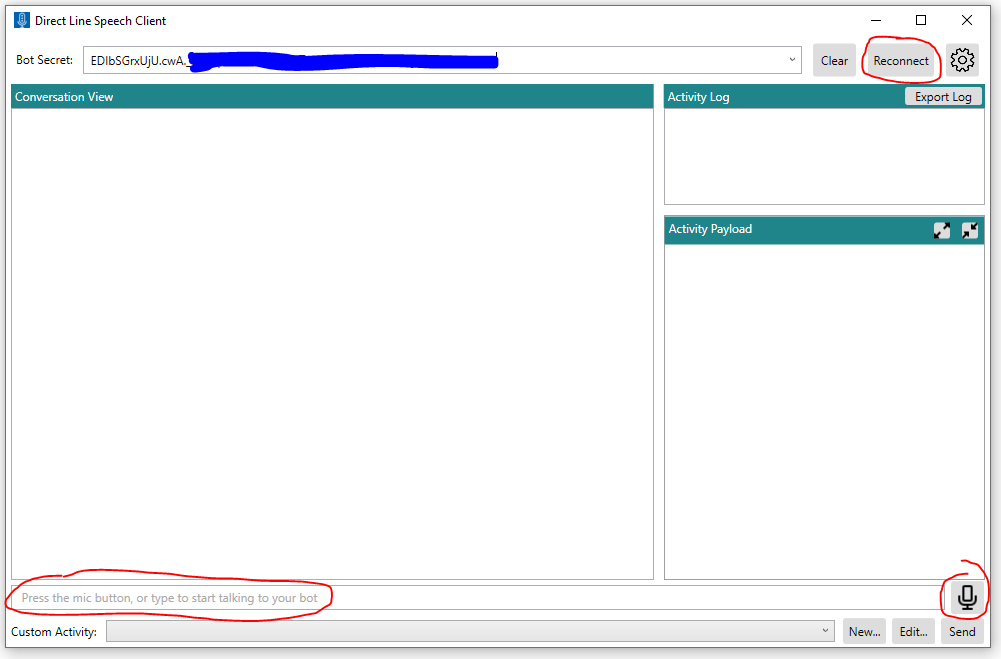
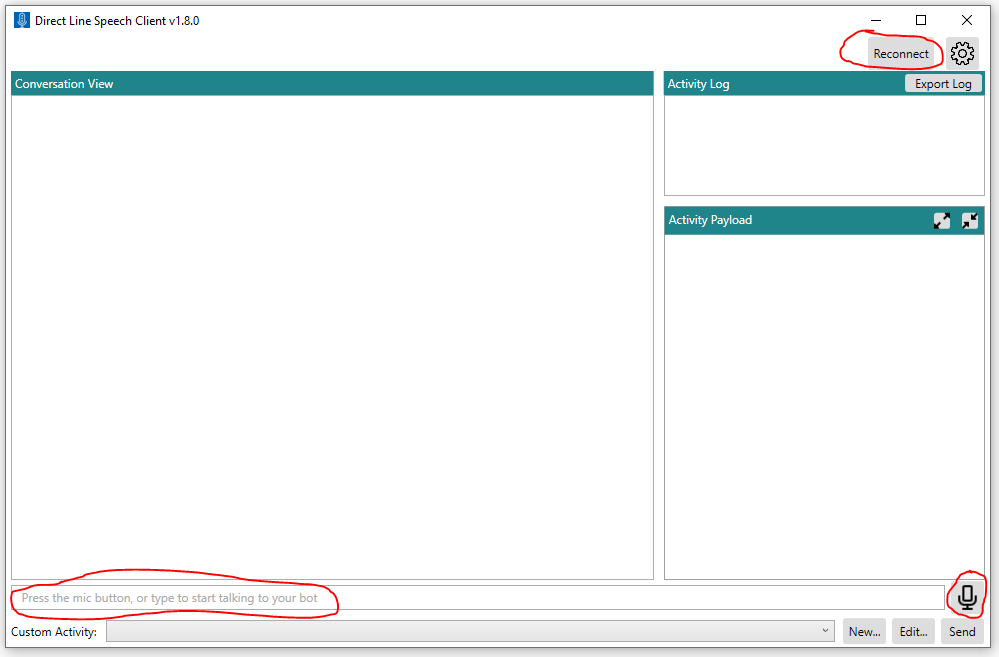
Dcohen readme update (#57)
* Update REAMDE.md following integration with Speech SDK 1.8

Changed region(s): [[0.0, 0.0, 0.993, 1.0]]

diff --git a/README.md b/README.md
@@ -20,7 +20,7 @@ The Direct Line Speech Client is a Windows Presentation Foundation (WPF) applica
 * Accepts typed text and speech captured by a microphone as inputs for your bot
 * Supports playback of audio response
 * Supports use of [custom wake-words](https://docs.microsoft.com/en-us/azure/cognitive-services/speech-service/speech-devices-sdk-create-kws)
-* Supports sending custom [Bot-Framework Activities](https://github.com/Microsoft/botframework-sdk/blob/master/specs/botframework-activity/botframework-activity.md) as JSON
+* Supports sending custom [Bot-Framework Activities](https://github.com/Microsoft/botframework-sdk/blob/master/specs/botframework-activity/botframework-activity.md) as JSON to the bot
 * Displays [Adaptive Cards](https://adaptivecards.io/) sent from your bot (with some limitations)
 * Exports the transcript and activity logs to a file
 
@@ -34,7 +34,7 @@ Let's review the hardware, software, and subscriptions that you'll need to use t
 - Visual Studio 2017 or higher
 - Microphone access
 - An Azure [Speech Services Key](https://docs.microsoft.com/en-us/azure/cognitive-services/speech-service/get-started)
-- A [Bot-Framework](https://dev.botframework.com/) bot service registered with Direct Line Speech channel
+- A [Bot-Framework](https://dev.botframework.com/) bot service registered with [Direct Line Speech](https://docs.microsoft.com/en-us/azure/bot-service/bot-service-channel-connect-directlinespeech?view=azure-bot-service-4.0) channel
 
 ### Quickstart
 
@@ -54,15 +54,13 @@ Let's review the hardware, software, and subscriptions that you'll need to use t
     - The default input language is "en-us" (US English). Update the _Language_ field as needed to select a different [language code from the "Speech-to-text" list](https://docs.microsoft.com/en-us/azure/cognitive-services/speech-service/language-support).
     - Press _Ok_ when you're done.
     - Your entires will be saved and populated automatically when you launch the app again.
-    ![Setting page](docs/media/SettingsPage.png)
-6. In the main window, enter your **Bot Secret**. This is one of the two channel secret keys provided when you
-registered your Bot-Framework bot with the Direct Line Speech channel.
-   ![Main Page](docs/media/MainPage.png)
-7. Press **Reconnect**. The application will try to connect to your bot via Direct Line Speech channel.
+    ![Setting page](docs/media/SettingsPage.png)  
+6. Press **Reconnect**. The application will try to connect to your bot via Direct Line Speech channel.
+ ![Main Page](docs/media/MainPage.png)
 The message **New conversation started -- type or press the microphone button** will appear below the text bar if the connection succeeded.
-8. You'll be prompted to allow microphone access. If you want to use the microphone, allow access.
-9. Press the microphone icon to begin recording. While speaking, intermediate recognition results will be shown in the application. The microphone icon will turn red while recording is in progress. It will automatically detect end of speech and stop recording.
-10. If everything works, you should see your bot's response on the screen and hear it speak the response. You can click on lines in the **Activity Log** window to see the full activity payload from the bot in JSON.
+7. You'll be prompted to allow microphone access. If you want to use the microphone, allow access.
+8. Press the microphone icon to begin recording. While speaking, intermediate recognition results will be shown in the application. The microphone icon will turn red while recording is in progress. It will automatically detect end of speech and stop recording.
+9. If everything works, you should see your bot's response on the screen and hear it speak the response. You can click on lines in the **Activity Log** window to see the full activity payload from the bot in JSON.
     **Note**: You'll only hear the bot's voice response if the [**Speak** field](https://github.com/Microsoft/botframework-sdk/blob/master/specs/botframework-activity/botframework-activity.md#speak) in the bot's output activity was set.
 
     ![Main Page](docs/media/MainPageWithActivity.png)
@@ -73,8 +71,7 @@ If an error messages was shown in red in the main application window, use this t
 
 | Error | What should you do? |
 |-------|----------------------|
-|App Error (see log for details): Microsoft.CognitiveServices.Speech.csharp : Value cannot be null. Parameter name: speechConfig | This is a client application error. Make sure you have a non-empty value for *Bot Secret* in the main app window | 
-|Error AuthenticationFailure : WebSocket Upgrade failed with an authentication error (401). Please check for correct subscription key (or authorization token) and region name| In the Settings page of the application, make sure you entered the Speech Subscription key and its region correctly.<br>Make sure your Bot Secret was entered correctly. |
+|Error AuthenticationFailure : WebSocket Upgrade failed with an authentication error (401). Please check for correct subscription key (or authorization token) and region name| In the Settings page of the application, make sure you entered the Speech Subscription key and its region correctly.|
 |Error ConnectionFailure : Connection was closed by the remote host. Error code: 1011. Error details: We could not connect to the bot before sending a message | Make sure you [checked the "Enable Streaming Endpoint" box and/or toggled "Web sockets" to On](https://docs.microsoft.com/en-us/azure/bot-service/bot-service-channel-connect-directlinespeech?view=azure-bot-service-4.0#enable-the-bot-framework-protocol-streaming-extensions)<br>Make sure your Azure App Service is running. If it is, try restarting your App Service.|
 |Error ConnectionFailure : Connection was closed by the remote host. Error code: 1011. Error details: Response status code does not indicate success: 500 (InternalServerError)| Your bot specified a Neural Voice in its output Activity [Speak](https://github.com/microsoft/botframework-sdk/blob/master/specs/botframework-activity/botframework-activity.md#speak) field, but the Azure region associated with your Speech subscription key does not support Neural Voices. See [Standard and neural voices](https://docs.microsoft.com/en-us/azure/cognitive-services/speech-service/regions#standard-and-neural-voices).|
 |Error ConnectionFailure : Connection was closed by the remote host. Error code: 1000. Error details: Exceeded maximum websocket connection idle duration(> 300000ms)| This is an expected error when the client left the connection to the channel open for more than 5 minutes without any activity |
@@ -87,19 +84,22 @@ Direct Line Speech Client allows you to author and send a custom JSON activity t
 
 ## Resources
 - [Bot Framework](https://dev.botframework.com/) docs:
-  - [About Direct Line](https://docs.microsoft.com/en-us/azure/cognitive-services/speech-service/get-started)
+  - [About Direct Line](https://docs.microsoft.com/en-us/azure/bot-service/bot-service-channel-directline?view=azure-bot-service-4.0)
   - [Connect a bot to Direct Line Speech](https://docs.microsoft.com/en-us/azure/bot-service/bot-service-channel-connect-directlinespeech?view=azure-bot-service-4.0)
   - [Use Direct Line Speech in your bot](https://docs.microsoft.com/en-us/azure/bot-service/directline-speech-bot?view=azure-bot-service-4.0)
   - [Bot-Framework Activities](https://github.com/Microsoft/botframework-sdk/blob/master/specs/botframework-activity/botframework-activity.md)
+  - [Azure Bot Service pricing](https://azure.microsoft.com/en-gb/pricing/details/bot-service/)
 - [Speech SDK](https://docs.microsoft.com/en-us/azure/cognitive-services/speech-service/speech-sdk) docs:
-  - [About custom voice-first virtual assistants](https://docs.microsoft.com/en-us/azure/cognitive-services/speech-service/voice-first-virtual-assistants)
+  - [About voice assistants](https://docs.microsoft.com/en-us/azure/cognitive-services/Speech-Service/voice-assistants)
   - [Tutorial: Voice-enable your bot using the Speech SDK](https://docs.microsoft.com/en-us/azure/cognitive-services/speech-service/tutorial-voice-enable-your-bot-speech-sdk)
-  - [Voice-first virtual assistants: Frequently asked questions](https://docs.microsoft.com/en-us/azure/cognitive-services/speech-service/faq-voice-first-virtual-assistants)
+  - [Voice assistants: Frequently asked questions](https://docs.microsoft.com/en-us/azure/cognitive-services/Speech-Service/faq-voice-assistants)
   - [Troubleshoot the Speech SDK](https://docs.microsoft.com/en-us/azure/cognitive-services/speech-service/troubleshooting)
-  - [Quickstart: Create a voice-first virtual assistant with the Speech SDK, UWP](https://docs.microsoft.com/en-us/azure/cognitive-services/speech-service/quickstart-virtual-assistant-csharp-uwp)
-  - [Quickstart: Create a voice-first virtual assistant with the Speech SDK, Java](https://docs.microsoft.com/en-us/azure/cognitive-services/speech-service/quickstart-virtual-assistant-java-jre)
-  - [Quickstart: Create a voice-first virtual assistant in Java on Android by using the Speech SDK](https://docs.microsoft.com/en-us/azure/cognitive-services/speech-service/quickstart-virtual-assistant-java-android)
+  - [Quickstart: Create a voice assistant with the Speech SDK, UWP](https://docs.microsoft.com/en-us/azure/cognitive-services/speech-service/quickstart-voice-assistant-csharp-uwp)
+  - [Quickstart: Create a voice assistant with the Speech SDK, Java](https://docs.microsoft.com/en-us/azure/cognitive-services/speech-service/quickstart-voice-assistant-java-jre)
+  - [Quickstart: Create a voice assistant in Java on Android by using the Speech SDK](https://docs.microsoft.com/en-us/azure/cognitive-services/speech-service/quickstart-voice-assistant-java-android)
   - [Create a custom wake word by using the Speech service](https://docs.microsoft.com/en-us/azure/cognitive-services/speech-service/speech-devices-sdk-create-kws)
   - [Try Speech Services for free](https://docs.microsoft.com/en-us/azure/cognitive-services/speech-service/get-started)
   - [Language and region support for the Speech Services](https://docs.microsoft.com/en-us/azure/cognitive-services/speech-service/language-support)
+  - [Speech Service supported regions](https://docs.microsoft.com/en-us/azure/cognitive-services/speech-service/regions)
+  - [Speech Synthesis Markup Language (SSML)](https://docs.microsoft.com/en-us/azure/cognitive-services/speech-service/speech-synthesis-markup)
 - [Adaptive Cards](https://adaptivecards.io/)
